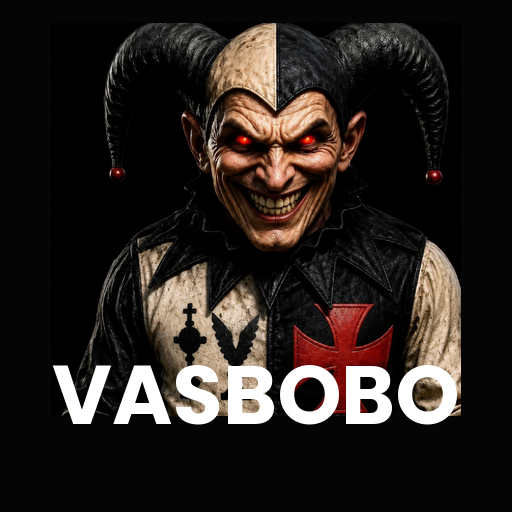
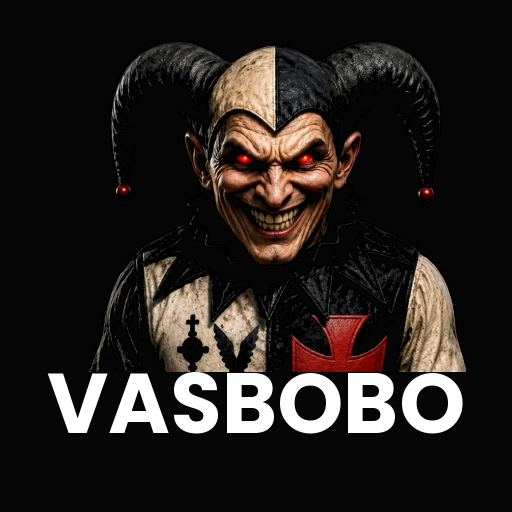
Confirmação de áudio vira modal grande (Você falou: '...'? / Ok, mensagem gravada); ícone do app com mais zoom-out (cruz de malta e símbolos do peito visíveis) e contorno preto no personagem

Changed region(s): [[0.0938, 0.0312, 0.9062, 0.875]]

diff --git a/index.html b/index.html
@@ -602,6 +602,12 @@ console.log('Firebase conectado ao Vasbobo ✓');
       <button class="btn" style="width:100%" onclick="document.getElementById('modalInstalar').classList.add('oculto')">Entendi</button>
     </div>
   </div>
+  <div class="fq-veu oculto" id="modalAudioOk" onclick="document.getElementById('modalAudioOk').classList.add('oculto')">
+    <div class="fq-modal" style="max-width:400px;text-align:center">
+      <p style="font-size:1.2rem;font-weight:800;line-height:1.4" id="modalAudioTexto"></p>
+      <p style="font-size:.9rem;color:#9A9AA5;margin-top:16px">✅ Ok, mensagem gravada</p>
+    </div>
+  </div>
   <script>
     let deferredPrompt = null;
     window.addEventListener('beforeinstallprompt', (e)=>{ e.preventDefault(); deferredPrompt = e; });
@@ -2377,6 +2383,17 @@ function finalizarAvaliacao(){
 /* =================== ÁUDIO DAS NOTAS (grava, salva, transcreve) =================== */
 let GRAV_MEDIA=null, GRAV_CHUNKS=[], GRAV_TIMER=null, GRAV_PID=null;
 const ICONE_MIC='<svg width="18" height="18" viewBox="0 0 24 24" fill="none"><path d="M12 15a3 3 0 0 0 3-3V6a3 3 0 0 0-6 0v6a3 3 0 0 0 3 3Z" fill="currentColor"/><path d="M19 11a7 7 0 0 1-14 0M12 18v3" stroke="currentColor" stroke-width="2" stroke-linecap="round" fill="none"/></svg>';
+function mostrarConfirmacaoAudio(texto){
+  const trecho=texto.length>140?texto.slice(0,140)+'…':texto;
+  const el=document.getElementById('modalAudioTexto');
+  if(el)el.textContent='Você falou: "'+trecho+'"?';
+  const modal=document.getElementById('modalAudioOk');
+  if(modal){
+    modal.classList.remove('oculto');
+    clearTimeout(modal._t);
+    modal._t=setTimeout(()=>modal.classList.add('oculto'),5000);
+  }
+}
 async function alternarGravacao(pid){
   if(GRAV_MEDIA&&GRAV_MEDIA.state==='recording'){ pararGravacao(); return; }
   try{
@@ -2426,8 +2443,8 @@ async function enviarAudioGravado(pid){
       await db.collection('audios').doc(chave).update({status:'transcrito',texto:info.texto});
       await fundirTranscricaoNoComentario(pid,info.texto);
       if(btn)btn.textContent='✅';
-      const trecho=info.texto.length>90?info.texto.slice(0,90)+'…':info.texto;
-      avisar('Você disse: "'+trecho+'"?! Mensagem gravada com sucesso 🎙',true);
+      avisar('Áudio transcrito e salvo!',true);
+      mostrarConfirmacaoAudio(info.texto);
     }else{
       await db.collection('audios').doc(chave).update({status:'erro'});
       if(btn)btn.textContent='⚠';
